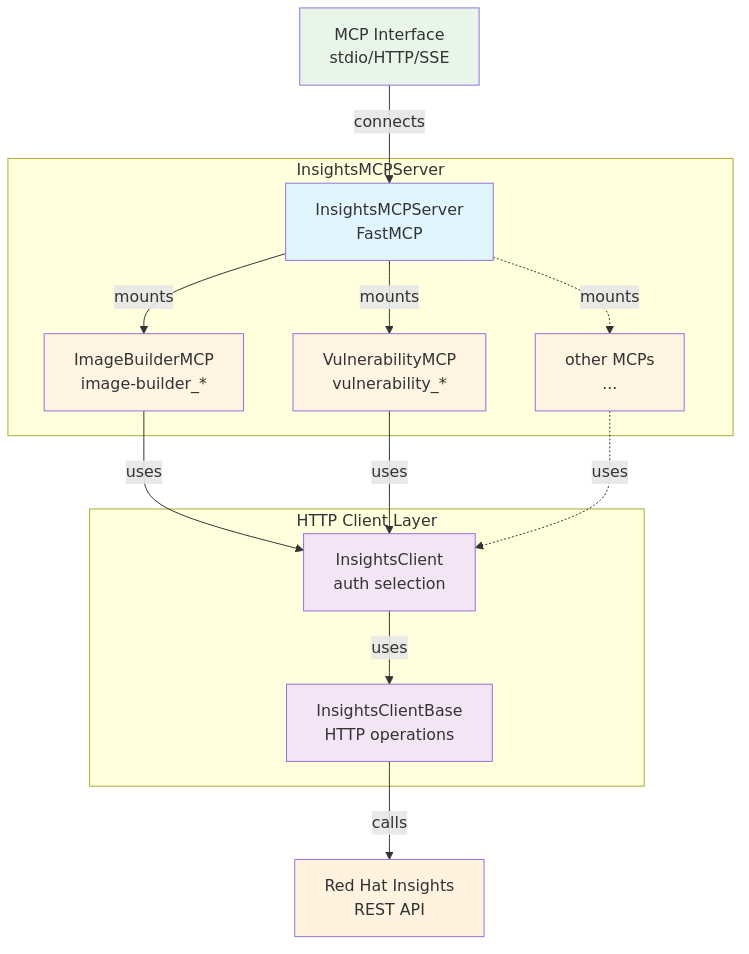
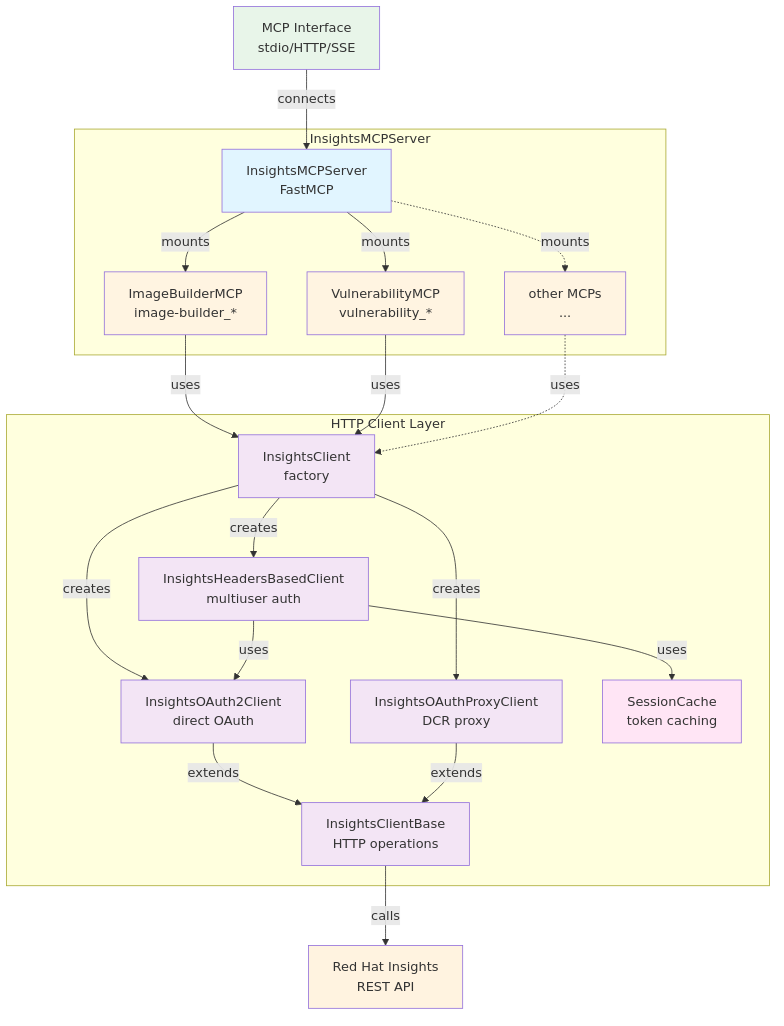
HACKING: document SessionCache

diff --git a/HACKING.md b/HACKING.md
@@ -50,9 +50,20 @@ graph TB
         MainServer -.->|mounts| More[other MCPs<br/>...]
     end
     subgraph "HTTP Client Layer"
-        InsightsClient[InsightsClient<br/>auth selection]
+        InsightsClient[InsightsClient<br/>factory]
+        OAuth2Client[InsightsOAuth2Client<br/>direct OAuth]
+        HeadersClient[InsightsHeadersBasedClient<br/>multiuser auth]
+        OAuthProxyClient[InsightsOAuthProxyClient<br/>DCR proxy]
+        SessionCache[SessionCache<br/>token caching]
         InsightsClientBase[InsightsClientBase<br/>HTTP operations]
-        InsightsClient -->|uses| InsightsClientBase
+
+        InsightsClient -->|creates| OAuth2Client
+        InsightsClient -->|creates| HeadersClient
+        InsightsClient -->|creates| OAuthProxyClient
+        HeadersClient -->|uses| SessionCache
+        OAuth2Client -->|extends| InsightsClientBase
+        HeadersClient -->|uses| OAuth2Client
+        OAuthProxyClient -->|extends| InsightsClientBase
     end
     API[Red Hat Insights<br/>REST API]
 
@@ -67,6 +78,10 @@ graph TB
     style Vulnerability fill:#fff4e1
     style More fill:#fff4e1
     style InsightsClient fill:#f3e5f5
+    style OAuth2Client fill:#f3e5f5
+    style HeadersClient fill:#f3e5f5
+    style OAuthProxyClient fill:#f3e5f5
+    style SessionCache fill:#ffe5f5
     style InsightsClientBase fill:#f3e5f5
     style MCP fill:#e8f5e9
     style API fill:#fff3e0
@@ -99,6 +114,20 @@ sequenceDiagram
 Here is the rendered version: [Deployment Flow](docs/architecture-deployment.svg)
 
 **Note**: To regenerate the `SVG` diagram images, run `make generate-docs`. The diagrams are also rendered directly by GitHub when viewing this file.
+
+### Session Cache and Token Management
+
+For multiuser scenarios (SSE/HTTP transports with header-based authentication), the `SessionCache` component provides per-connection OAuth token caching to improve performance and reduce authentication overhead.
+
+**Key features:**
+- Cache key: `(session_id, credentials_hash)` ensures isolation between connections and credential sets
+- Default TTL: 15 minutes with automatic expiration
+- Periodic cleanup: Removes expired entries every 20 minutes
+- Thread-safe: Supports concurrent access from multiple requests
+
+**Implementation:** See [`src/insights_mcp/session_cache.py`](src/insights_mcp/session_cache.py)
+
+**Used by:** `InsightsHeadersBasedClient` for SSE/HTTP transports when credentials are provided via request headers rather than environment variables.
 
 ## Important notes
 * When changing some code you might want to use `make build-prod` so the container is built with
@@ -284,6 +313,11 @@ The hosted MCP server implements a sophisticated OAuth proxy pattern that bridge
 - When access tokens expire, clients send refresh requests to proxy
 - Proxy forwards refresh requests to Red Hat SSO
 - Updated tokens are returned to client
+
+**Performance Optimization:**
+- `SessionCache` reduces OAuth roundtrips by caching tokens per connection
+- Cached tokens reused across concurrent requests from same client/credentials
+- See [Session Cache documentation](#session-cache-and-token-management) for details
 
 #### OIDCProxy Implementation
 
